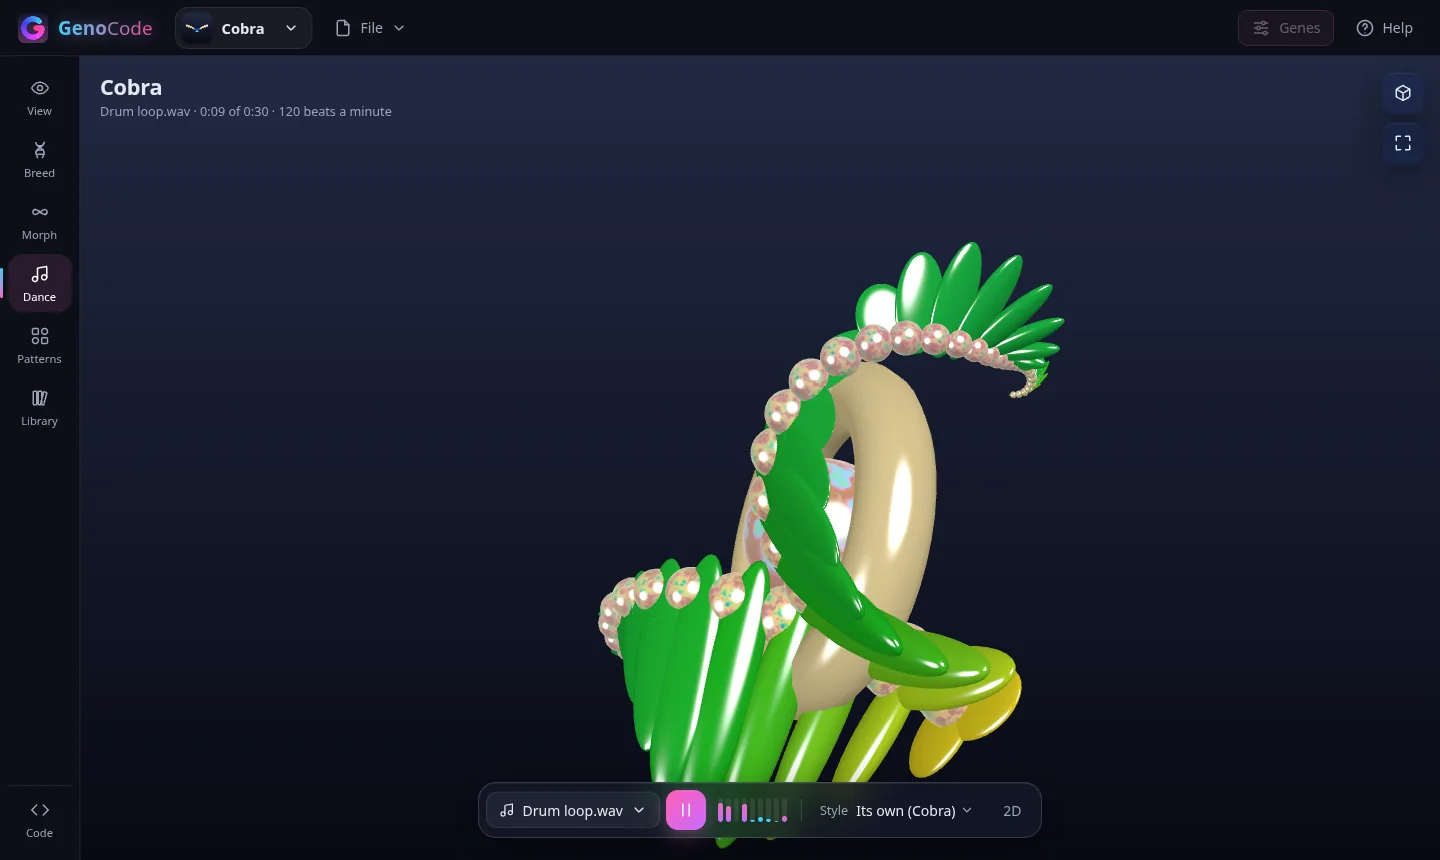
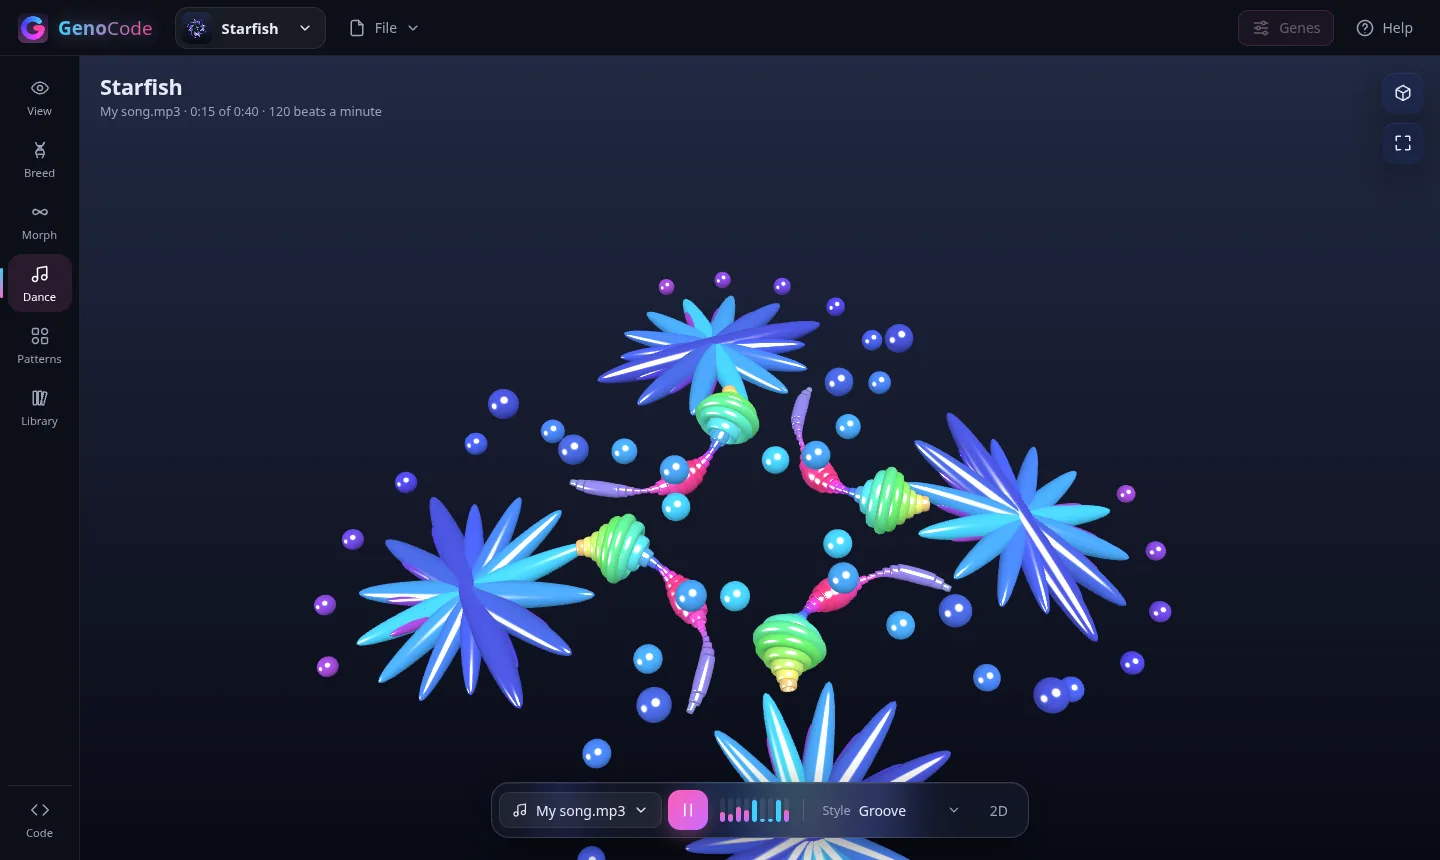
Front page: a better Dance screenshot (#12)
## What this changes

The Dance screenshot on the front page (retaken in #11) showed Cobra
zoomed in and cut off. It's now Starfish dancing in full view, with the
music meters lit. Its alt text says Starfish.

## How it was tested

Picked from 40 frames of five creatures dancing in headless Brave at
1440×860; prettier passes.

## Release

None: the site redeploys when this is merged.

🤖 Generated with [Claude Code](https://claude.com/claude-code)

diff --git a/packages/app/index.html b/packages/app/index.html
@@ -165,7 +165,7 @@ colour snow
             width="1440"
             height="860"
             loading="lazy"
-            alt="Cobra dancing in Dance mode, with the music, its meters and the dance style in the bar along the bottom"
+            alt="Starfish dancing in Dance mode, with the music, its meters and the dance style in the bar along the bottom"
           />
           <div>
             <h2>Dance to your music</h2>
